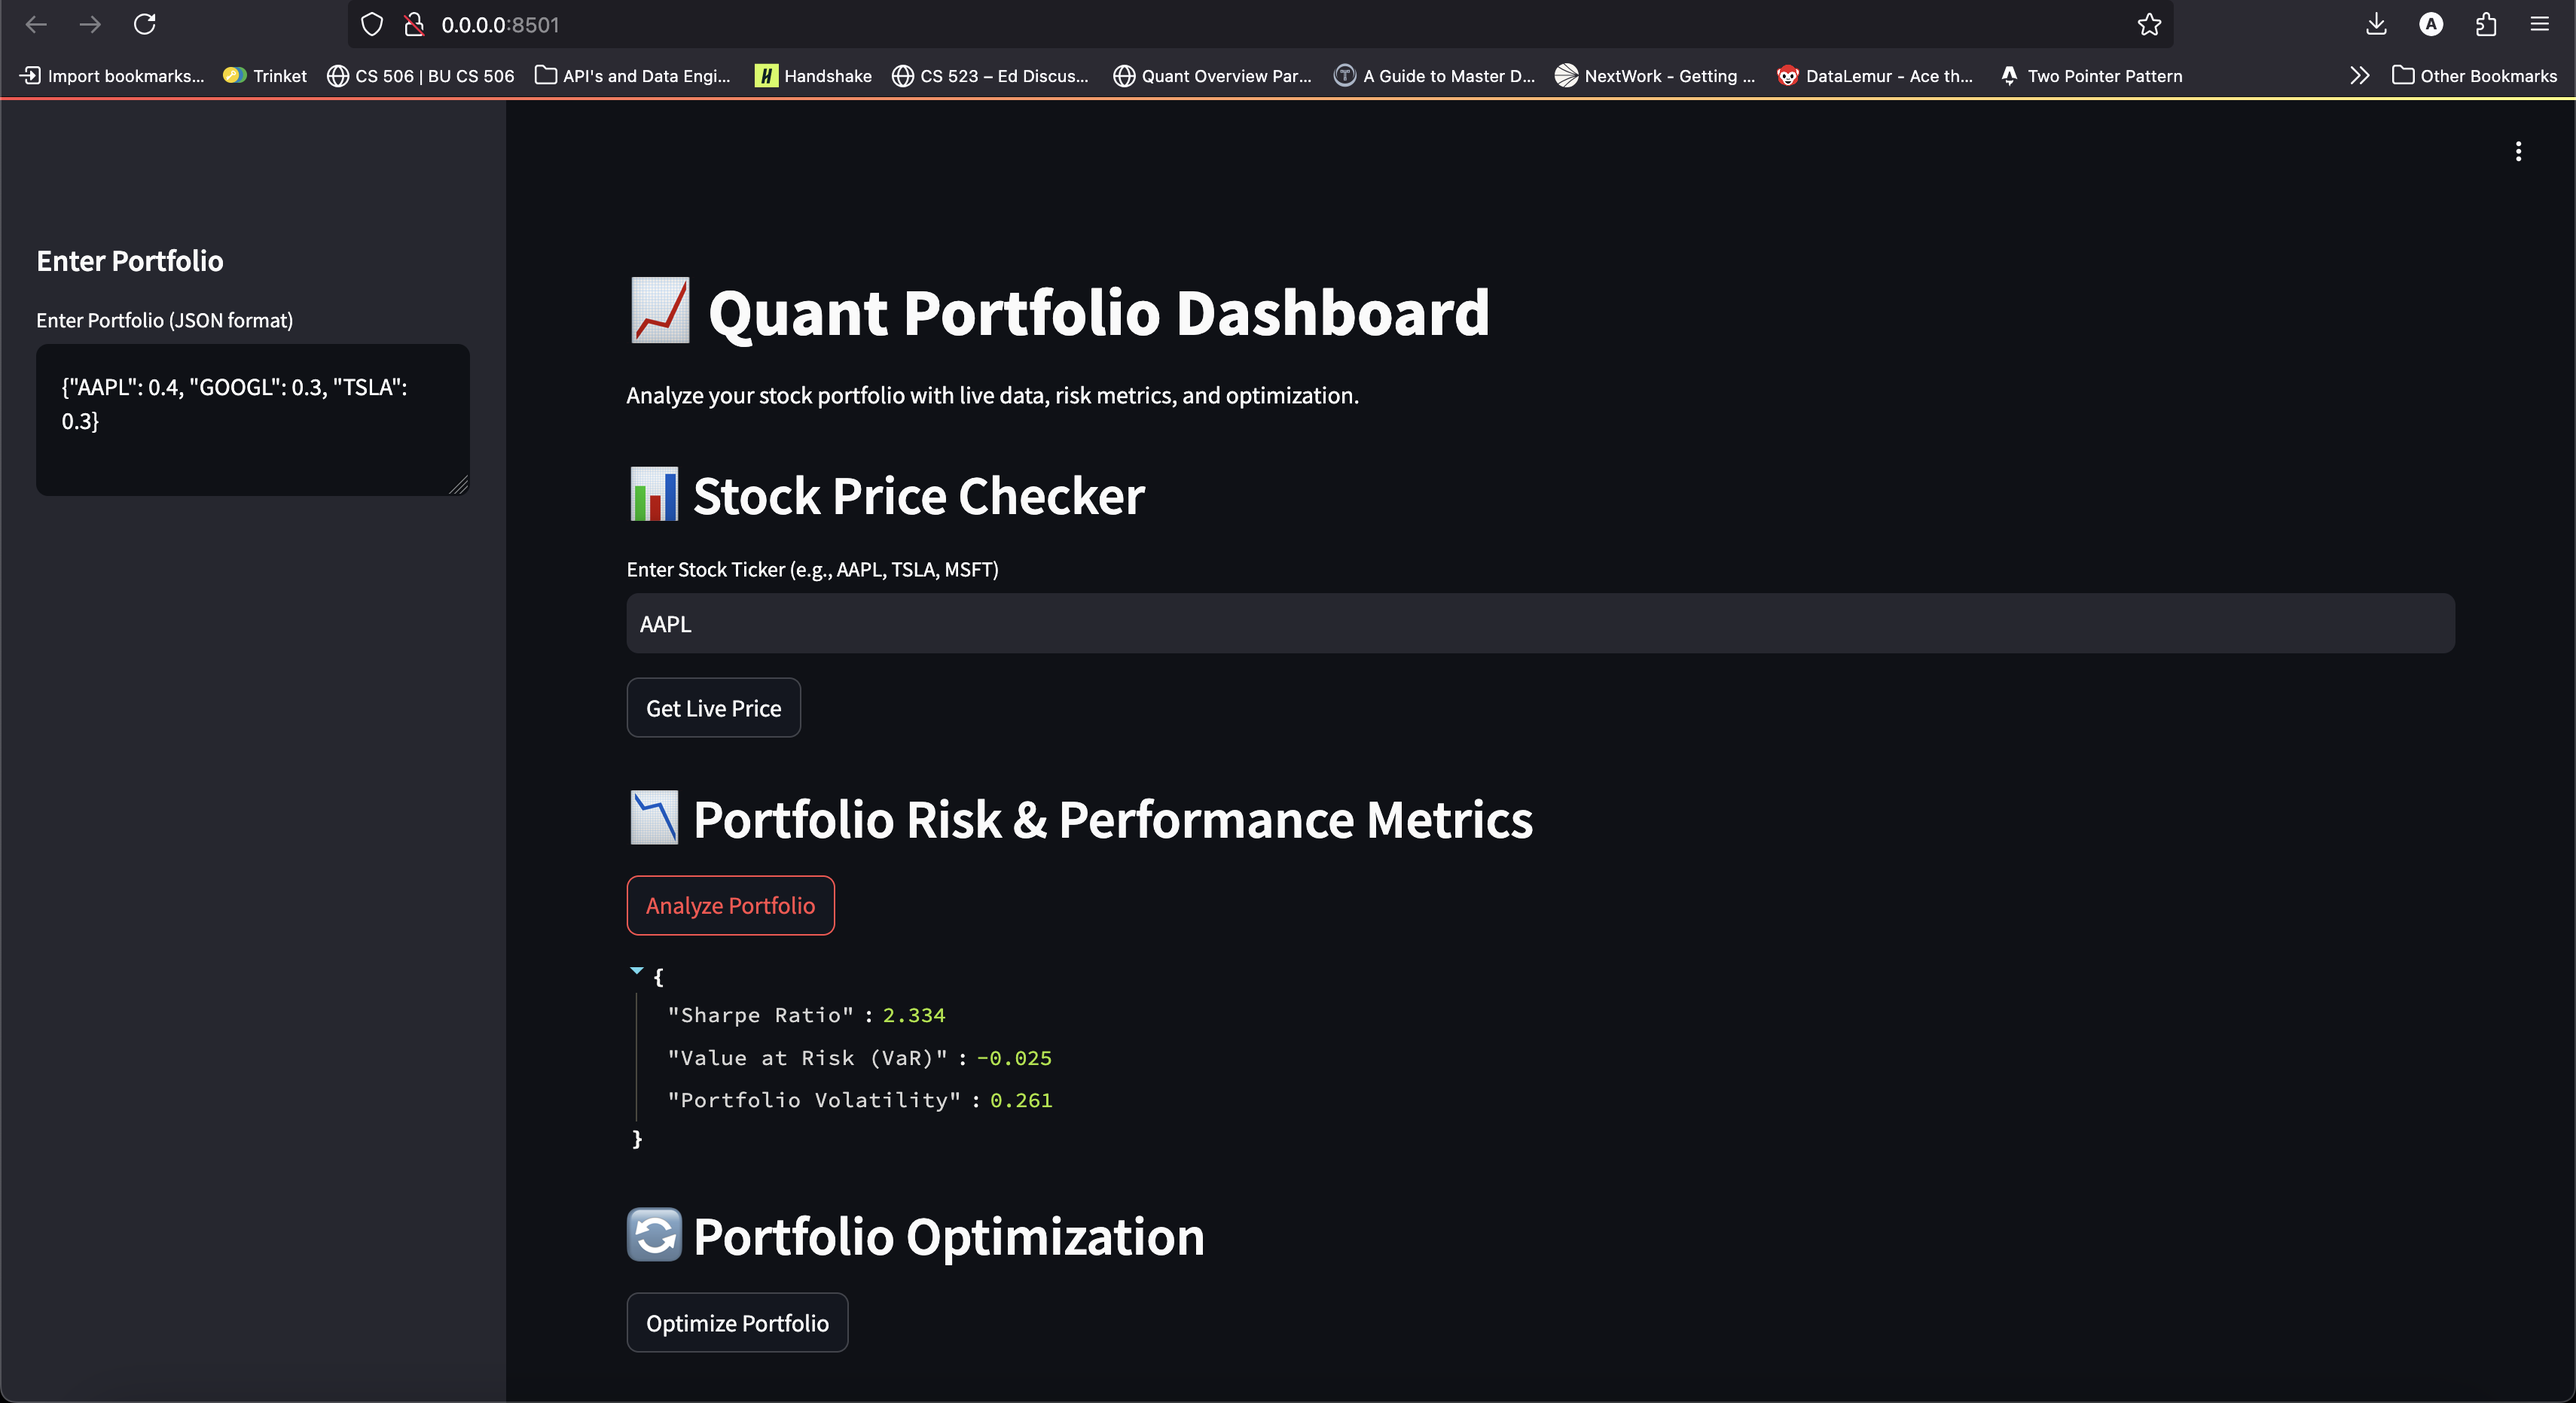
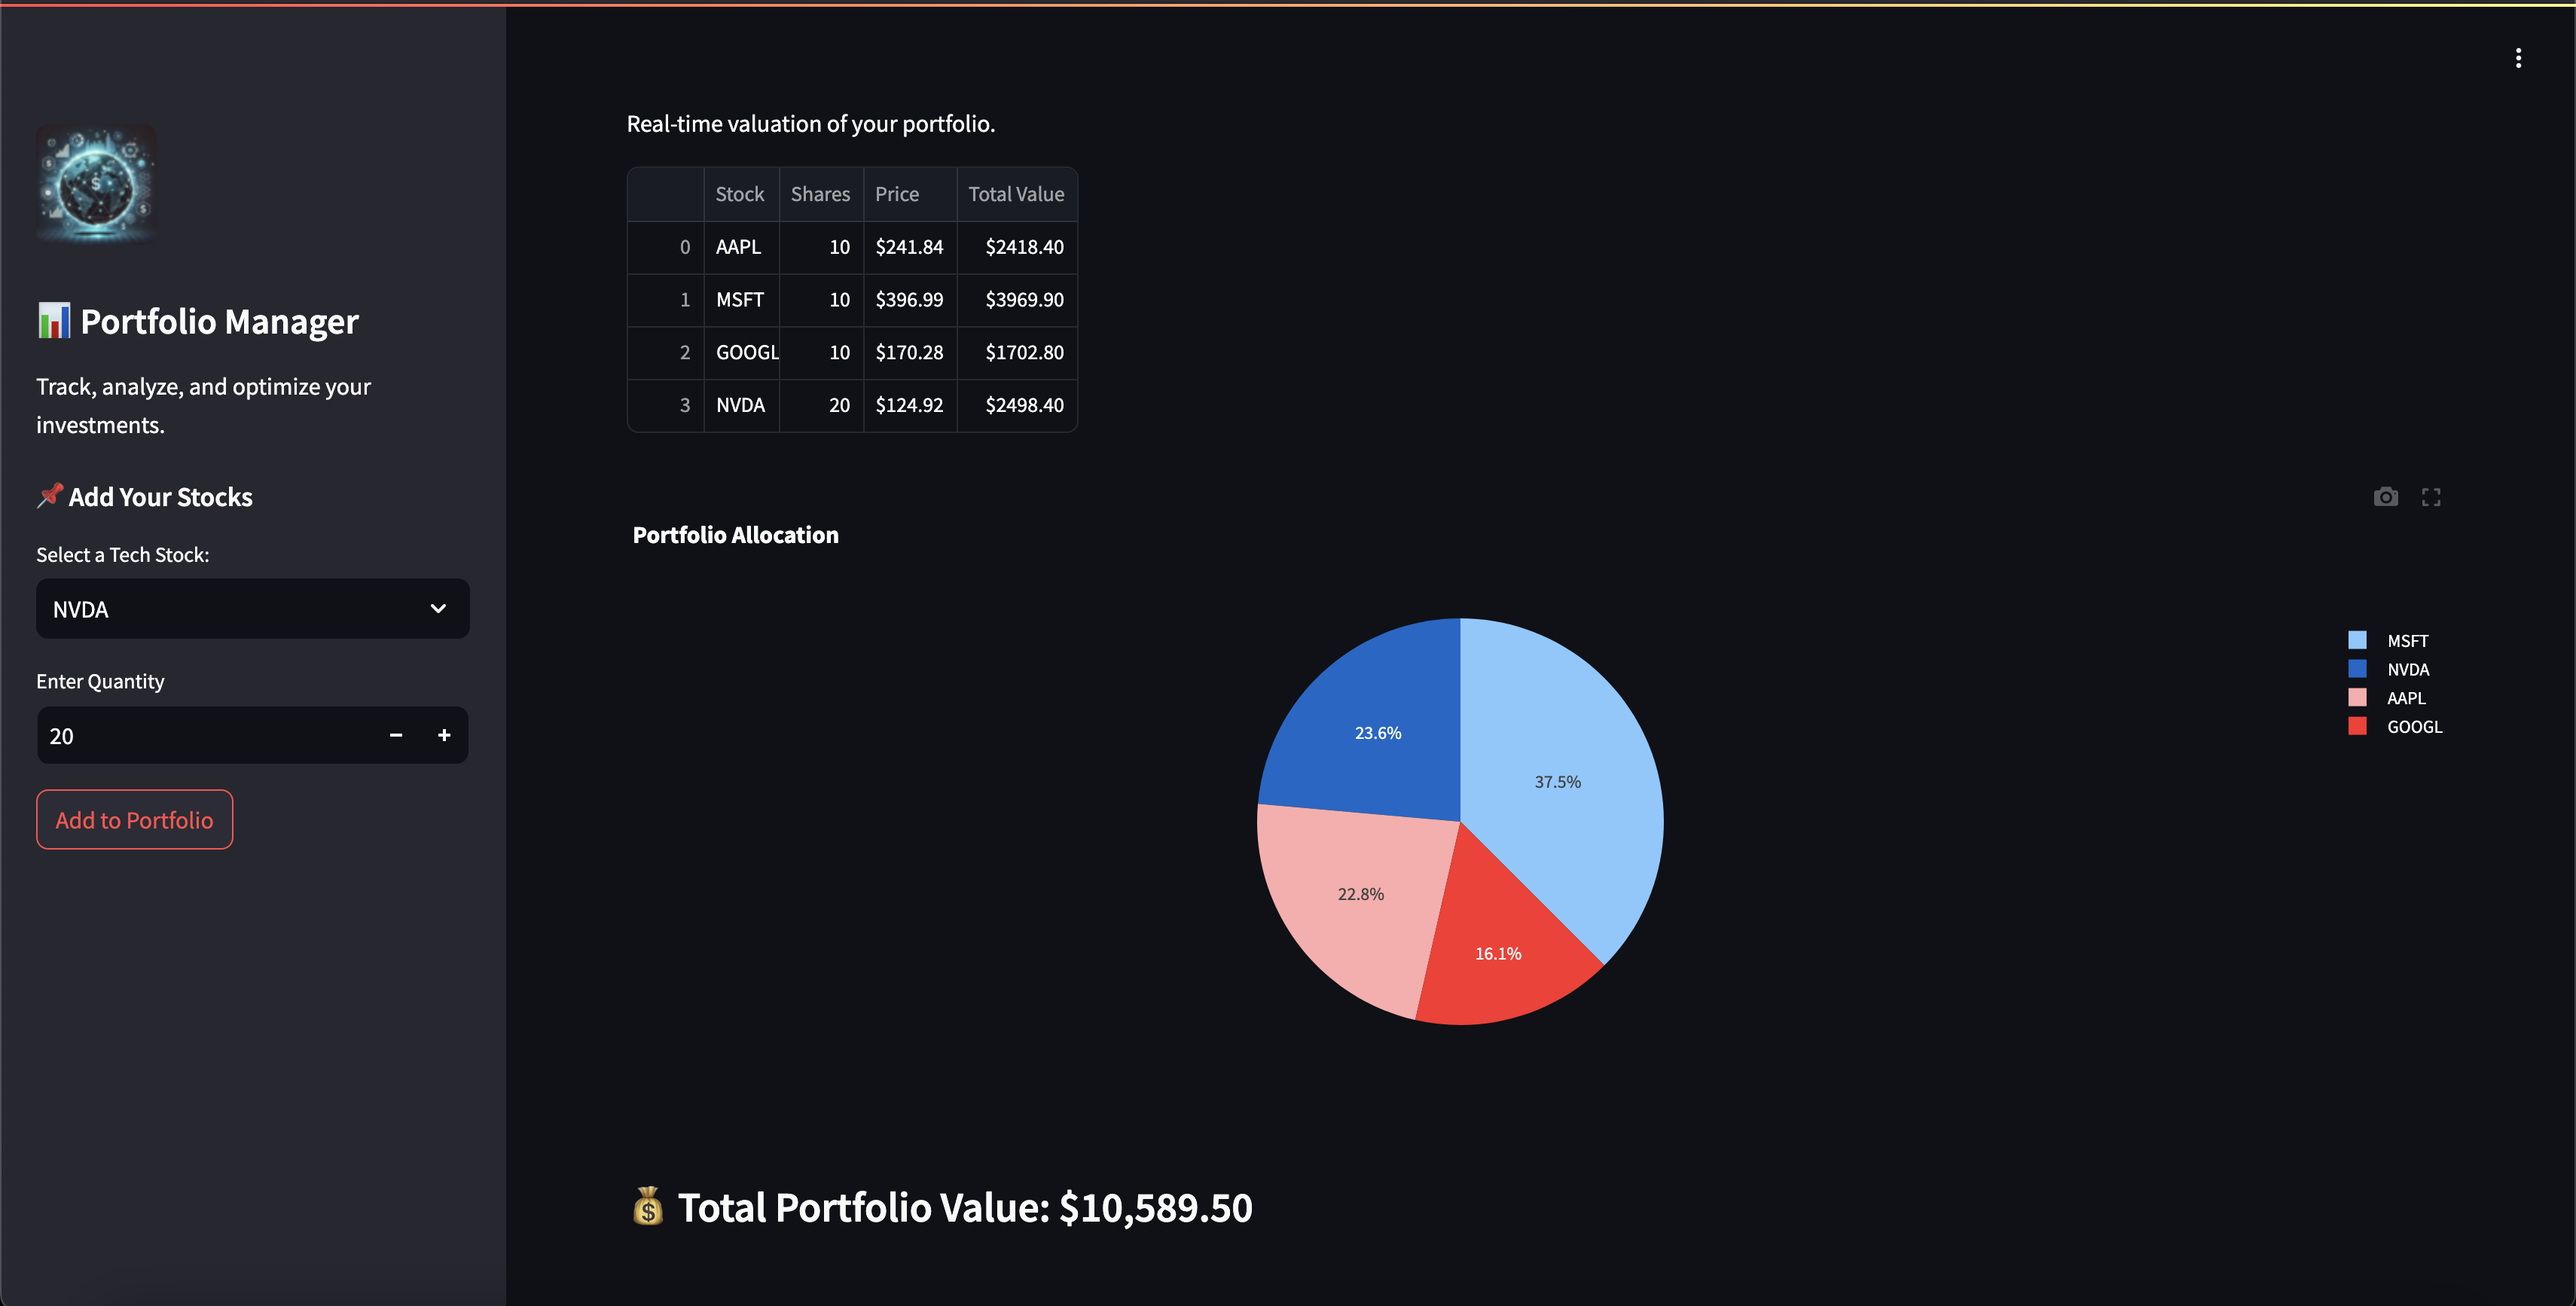
updated front-end

diff --git a/frontend/dashboard.py b/frontend/dashboard.py
@@ -1,47 +1,55 @@
 import streamlit as st
-import requests
-import json
+import pandas as pd
+import yfinance as yf
+import plotly.express as px
 
-# Set API base URL (localhost instead of 'backend')
-API_BASE_URL = "http://backend:8000"
+# 🎨 Set Page Config
+st.set_page_config(page_title="Quant Portfolio Dashboard", layout="wide")
 
-# Streamlit UI
-st.set_page_config(page_title="📈 Quant Portfolio Dashboard", layout="wide")
+# 📌 Sidebar
+st.sidebar.image("logo.png", width=80)
+st.sidebar.title("📊 Portfolio Manager")
+st.sidebar.write("Track, analyze, and optimize your investments.")
 
-st.title("📈 Quant Portfolio Dashboard")
-st.write("Analyze your stock portfolio with live data, risk metrics, and optimization.")
+# 🔹 List of Top 50 Tech Stocks
+TECH_STOCKS = [
+    "AAPL", "MSFT", "GOOGL", "AMZN", "NVDA", "META", "TSLA", "ADBE", "CRM", "AMD",
+    "INTC", "CSCO", "IBM", "ORCL", "PYPL", "NFLX", "UBER", "SQ", "SHOP", "TWLO",
+    "SNOW", "PLTR", "FSLY", "DOCU", "ROKU", "NET", "ZI", "DDOG", "CRWD", "ZS",
+    "MDB", "OKTA", "TEAM", "ASAN", "SMAR", "HUBS", "SE", "BABA", "JD", "PDD",
+    "TSM", "AVGO", "TXN", "QCOM", "MU", "LRCX", "NXPI", "STX", "WDAY", "SNAP"
+]
 
-# Sidebar Inputs for Portfolio
-st.sidebar.header("Enter Portfolio")
-portfolio_input = st.sidebar.text_area("Enter Portfolio (JSON format)", '{"AAPL": 0.4, "GOOGL": 0.3, "TSLA": 0.3}')
-portfolio = json.loads(portfolio_input)
+# 🔹 User Portfolio Input
+st.sidebar.subheader("📌 Add Your Stocks")
+selected_stock = st.sidebar.selectbox("Select a Tech Stock:", TECH_STOCKS)
+quantity = st.sidebar.number_input("Enter Quantity", min_value=1, step=1)
 
-# Live Stock Price Checker
-st.header("📊 Stock Price Checker")
-ticker = st.text_input("Enter Stock Ticker (e.g., AAPL, TSLA, MSFT)", "AAPL")
+if st.sidebar.button("Add to Portfolio"):
+    st.session_state.portfolio[selected_stock] = quantity  # Store holdings in session state
 
-if st.button("Get Live Price"):
-    response = requests.get(f"{API_BASE_URL}/price/{ticker}")  # ✅ Corrected API URL
-    if response.status_code == 200:
-        data = response.json()
-        st.success(f"Live Price of {ticker}: ${data['price']:.2f}")
-    else:
-        st.error("Error fetching stock price")
+# 🔹 Portfolio Summary Section
+st.header("📊 Portfolio Overview")
+st.write("Real-time valuation of your portfolio.")
 
-# Portfolio Analysis
-st.header("📉 Portfolio Risk & Performance Metrics")
-if st.button("Analyze Portfolio"):
-    response = requests.post(f"{API_BASE_URL}/analyze", json=portfolio)
-    if response.status_code == 200:
-        st.json(response.json())
-    else:
-        st.error("Error analyzing portfolio")
+if "portfolio" not in st.session_state:
+    st.session_state.portfolio = {}
 
-# Portfolio Optimization
-st.header("🔄 Portfolio Optimization")
-if st.button("Optimize Portfolio"):
-    response = requests.post(f"{API_BASE_URL}/optimize", json=portfolio)
-    if response.status_code == 200:
-        st.json(response.json())
-    else:
-        st.error("Error optimizing portfolio")
+if st.session_state.portfolio:
+    portfolio_df = pd.DataFrame({"Stock": st.session_state.portfolio.keys(), "Shares": st.session_state.portfolio.values()})
+    prices = {stock: yf.Ticker(stock).history(period="1d")["Close"].iloc[-1] for stock in portfolio_df["Stock"]}
+    portfolio_df["Price"] = portfolio_df["Stock"].map(prices)
+    portfolio_df["Total Value"] = portfolio_df["Shares"] * portfolio_df["Price"]
+
+    # Display Portfolio Table
+    st.dataframe(portfolio_df.style.format({"Price": "${:.2f}", "Total Value": "${:.2f}"}))
+
+    # Portfolio Allocation Pie Chart
+    fig = px.pie(portfolio_df, names="Stock", values="Total Value", title="Portfolio Allocation")
+    st.plotly_chart(fig)
+
+    # Total Portfolio Value
+    total_value = portfolio_df["Total Value"].sum()
+    st.subheader(f"💰 Total Portfolio Value: ${total_value:,.2f}")
+else:
+    st.warning("Add stocks to your portfolio to see data.")

diff --git a/Readme.md b/Readme.md
@@ -3,7 +3,7 @@
 A professional-grade web dashboard to analyze stock portfolios, optimize asset allocation, and visualize portfolio performance.
 ## 🎨 Front-End Preview
 
-![Quant Portfolio Dashboard](Front-End.png)
+![Quant Portfolio Dashboard](front-end.png)
 
 ## 🚀 Features
 - **Live Stock Prices** using Yahoo Finance API
